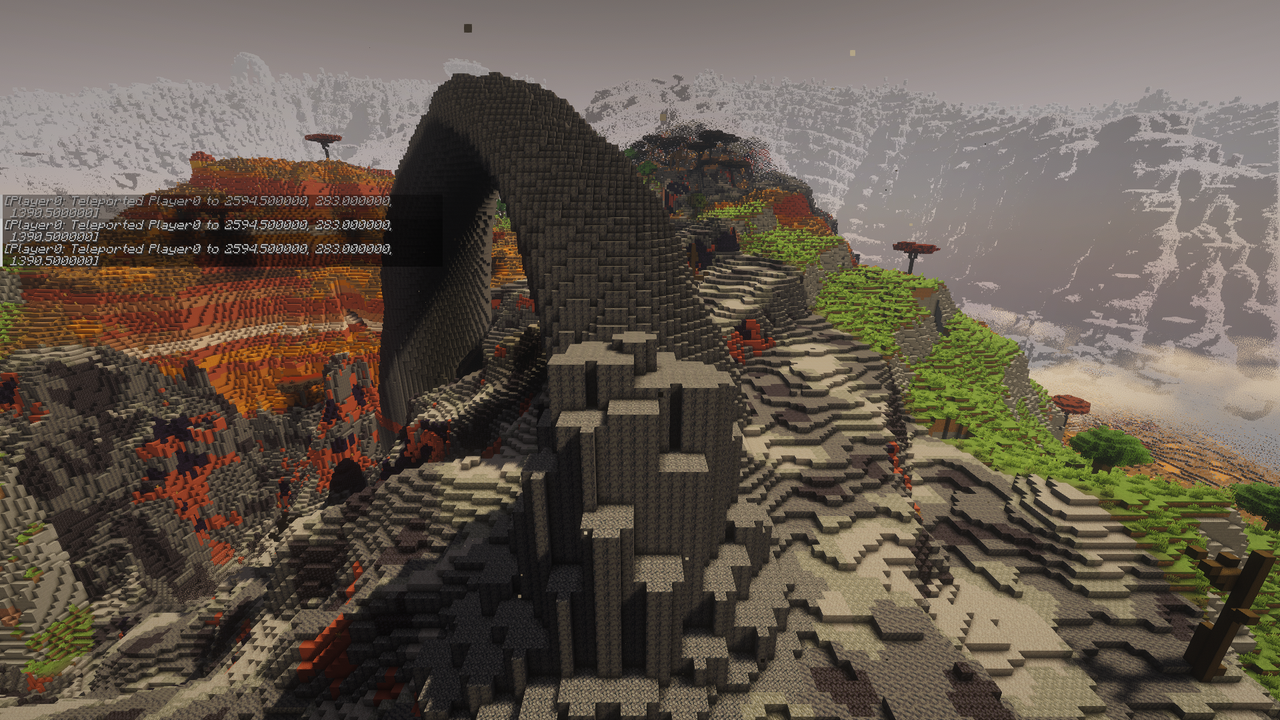
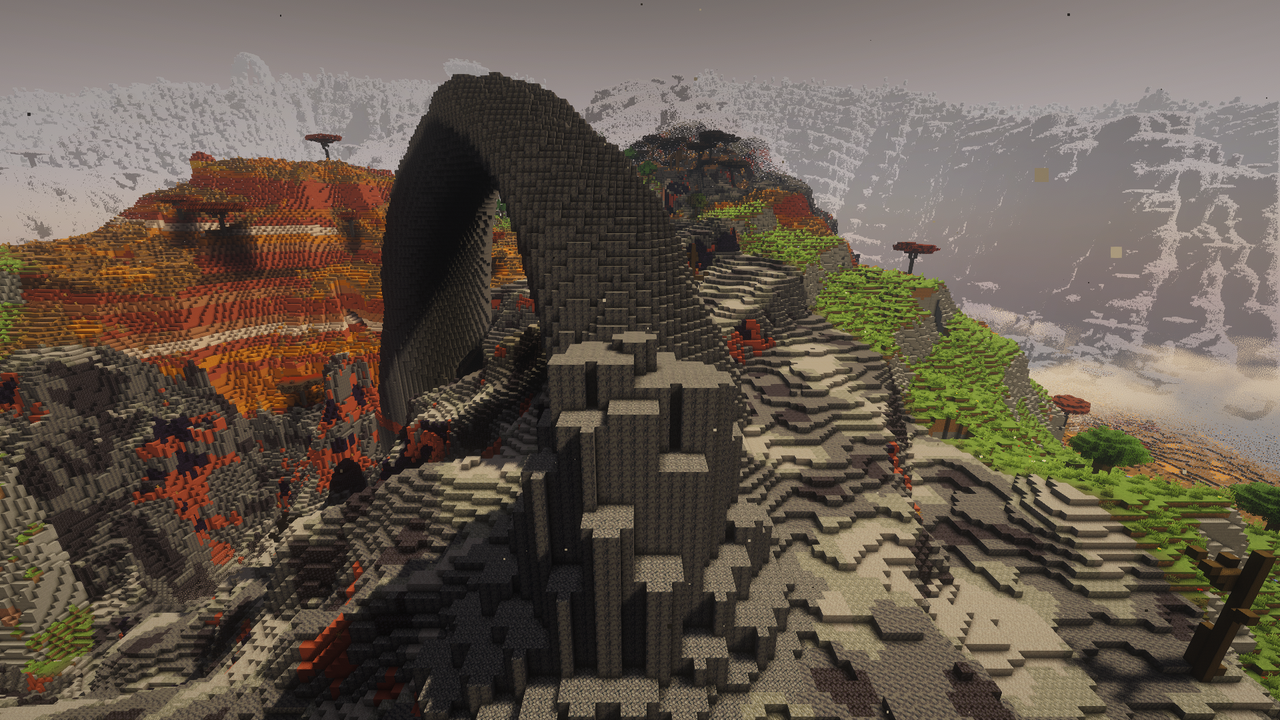
Device session 4: far LOD fix check, realm builds, other shader packs, final install
Seed tour hides HUD and chat for screenshots and takes a second basalt FPS
sample after 60 s.

Claude-Session: https://claude.ai/code/session_01XgAo3bNJTgy4FV4EhYCazH

diff --git a/mod-fabric/src/gametest/java/dev/veyrath/mod/gametest/SeedTourGameTest.java b/mod-fabric/src/gametest/java/dev/veyrath/mod/gametest/SeedTourGameTest.java
@@ -131,6 +131,11 @@ public final class SeedTourGameTest implements FabricClientGameTest {
             shot(context, seed + "_" + target + "_" + names[i], setup);
         }
         averageFps(context, seed, target);
+        if (target.equals("basalt")) {
+            // Second sample a minute later, to tell a passing realm build from a steady cost.
+            context.waitTicks(1200);
+            averageFps(context, seed, "basalt_after_60s");
+        }
         census(sp, seed, target);
         if (target.equals("spawn")) {
             // Stand still and look west again: does the LOD band between chunks and Distant
@@ -195,6 +200,16 @@ public final class SeedTourGameTest implements FabricClientGameTest {
         sp.getServer().runCommand("time set noon");
         look(context, sp, cx + 600, uy + 40, cz, cx, bottom, cz);
         shot(context, seed + "_crown_underside_far", setup);
+    }
+
+    private static void setHudHidden(net.minecraft.client.Minecraft mc, boolean hidden) {
+        try {
+            java.lang.reflect.Field f = net.minecraft.client.gui.Hud.class.getDeclaredField("isHidden");
+            f.setAccessible(true);
+            f.setBoolean(mc.gui.hud, hidden);
+        } catch (ReflectiveOperationException e) {
+            throw new AssertionError("Cannot toggle the HUD", e);
+        }
     }
 
     /** First y below {@code fromY} whose block is not air: the ground or water surface under an island. */
@@ -266,6 +281,7 @@ public final class SeedTourGameTest implements FabricClientGameTest {
 
     /** Samples the client's frames-per-second counter once a second for 10 s, facing south. */
     private static void averageFps(ClientGameTestContext context, String seed, String target) {
+        LOG.info("seed {}: {} fps sample start", seed, target);
         int sum = 0, min = Integer.MAX_VALUE, max = 0;
         for (int i = 0; i < FPS_SAMPLES; i++) {
             context.waitTicks(20);
@@ -278,7 +294,14 @@ public final class SeedTourGameTest implements FabricClientGameTest {
     }
 
     private static void shot(ClientGameTestContext context, String name, String setup) {
+        // Hide HUD and chat (F1 state; the 26.3 Hud keeps it in a private field) for the capture.
+        context.runOnClient(mc -> {
+            mc.gui.hud.getChat().clearMessages(false);
+            setHudHidden(mc, true);
+        });
+        context.waitTicks(2);
         LOG.info("screenshot {}", context.takeScreenshot(
                 TestScreenshotOptions.of("seed" + name + "_" + setup).withSize(1920, 1080)));
+        context.runOnClient(mc -> setHudHidden(mc, false));
     }
 }

diff --git a/docs/CHAPTER_STATUS.md b/docs/CHAPTER_STATUS.md
@@ -298,3 +298,54 @@ from 600 blocks). It also takes `-Pveyrath.tourTargets=a,b` (or `none`).
 `ATM_FOG_DISTANCE=300`, then that plus `enableDhFog=false`. Neither made far mountains clearly
 more readable (`seed1_aethercrown_e_shaders*.png`), so no new defaults were shipped. The cause is
 still open.
+
+### Device session 4 (2026-11-03, `robbs-strix`)
+
+Builds: de595f5 (far LOD slope), then 15455c0 (realm prewarm b0d0e06, single flowers). The mod
+compiled with no fixes both times. Engine tests: 14 of 14 pass. Every run used new worlds (the dev
+save folder is wiped before each run, so there was no old DH cache). Screenshots now hide the HUD
+and chat.
+
+**Far LOD slope fix (de595f5).** With Complementary on, far Aethercrown ranges show somewhat more
+grey rock relief than in session 3, but they are still pale blue-white overall
+(`seed1_aethercrown_e_shaders_farfix.png` vs `seed1_aethercrown_e_shaders.png`). At the summit
+the far peaks are snow and haze in both (`seed1_summit_n_shaders_farfix.png`). Seed 1 spawn, shaders
+on: far mountains were already drawn 27 s after spawn was ready, and complete at 85 s
+(`seed1_spawn_w_shaders_farfix.png`, `seed1_spawn_w_still_shaders_farfix.png`).
+
+**FPS** (10 s averages, full pack, 24 chunks, 1920x1080 window)
+- de595f5, shaders off, seeds 1 / 2: 171–235 / 171–237 (lowest: seed 1 window 171, seed 2
+  spawn_still 171, elderbough 180).
+- de595f5, Complementary, seeds 1 / 2: 99–222 / 97–222 (elderbough 99 / 97, elder_tree
+  111 / 108, crown 127 / 136).
+- 15455c0, seed 1, shaders off: 215–238 at all 20 samples.
+- 15455c0, seed 1, Complementary: 71–220 (elderbough 71, elder_tree 111, crown 128, basalt 158
+  then 188 after 60 s).
+- 15455c0, seed 1, Photon v1.4: spawn 175–197, crown 182, aethercrown 201. Bliss 2.1.2: spawn
+  178–195, crown 181, aethercrown 221.
+
+**Realm builds** (log `Realm x,z built in N ms`, seed 1): realm 0,0 at world start 5320 / 5423 ms
+(off / Complementary), realm 0,-1 11454 / 11302 ms, built between the arch and caldera stops.
+Neither build overlapped the basalt samples (16:57:46–56 and 16:58:56–59:06 shaders off,
+17:15:02–12 and 17:16:12–22 with Complementary).
+
+**Flowers at spawn** (seed 1, 64x64 columns): 29–31 small flowers in every run on 15455c0. In the
+spawn screenshots, taken from 40 blocks above, they are not distinguishable.
+
+**Other shader packs**
+- Photon v1.4: black sky with white blocky patches (`seed1_crown_s_photon.png`).
+- Bliss 2.1.2: heavy white overexposure and glare (`seed1_aethercrown_e_bliss.png`).
+- Complementary Unbound stays the default.
+
+**Log errors with shaders on** (all three packs):
+- DH `RenderThreadTaskHandler` "Close the existing render pass before performing additional
+  commands" twice, while DH's chat warnings bake font glyphs.
+- Iris "Opaque + Translucent pass ran with shaders on" once at world start.
+- DH `stmt pointer is closed` when a world closes.
+- The game kept running in every case.
+
+**Final install** (15455c0): profile `veyrath` with gameDir
+`%APPDATA%\.minecraft\instances\veyrath`; 26 launcher profiles in total.
[1 lines of base64/hex data omitted]
+An offline start in that folder with the launcher's Java runtime logged `Loading 91 mods` and
+`VEYRATH initialised`; I stopped it after 50 s at the title screen.
